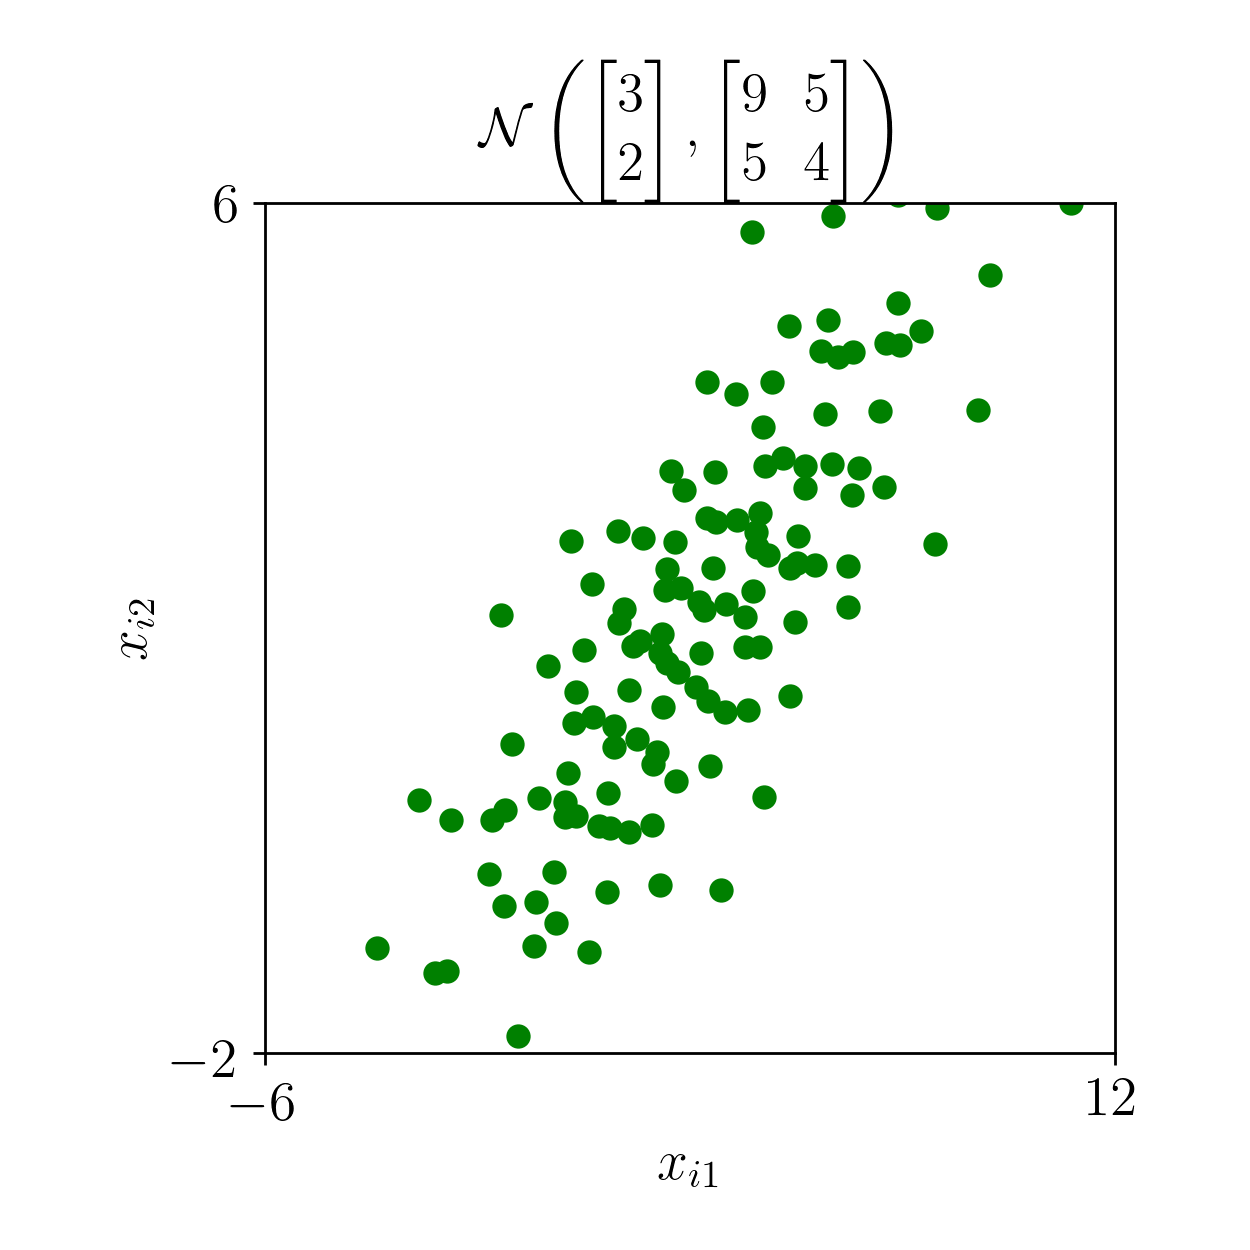
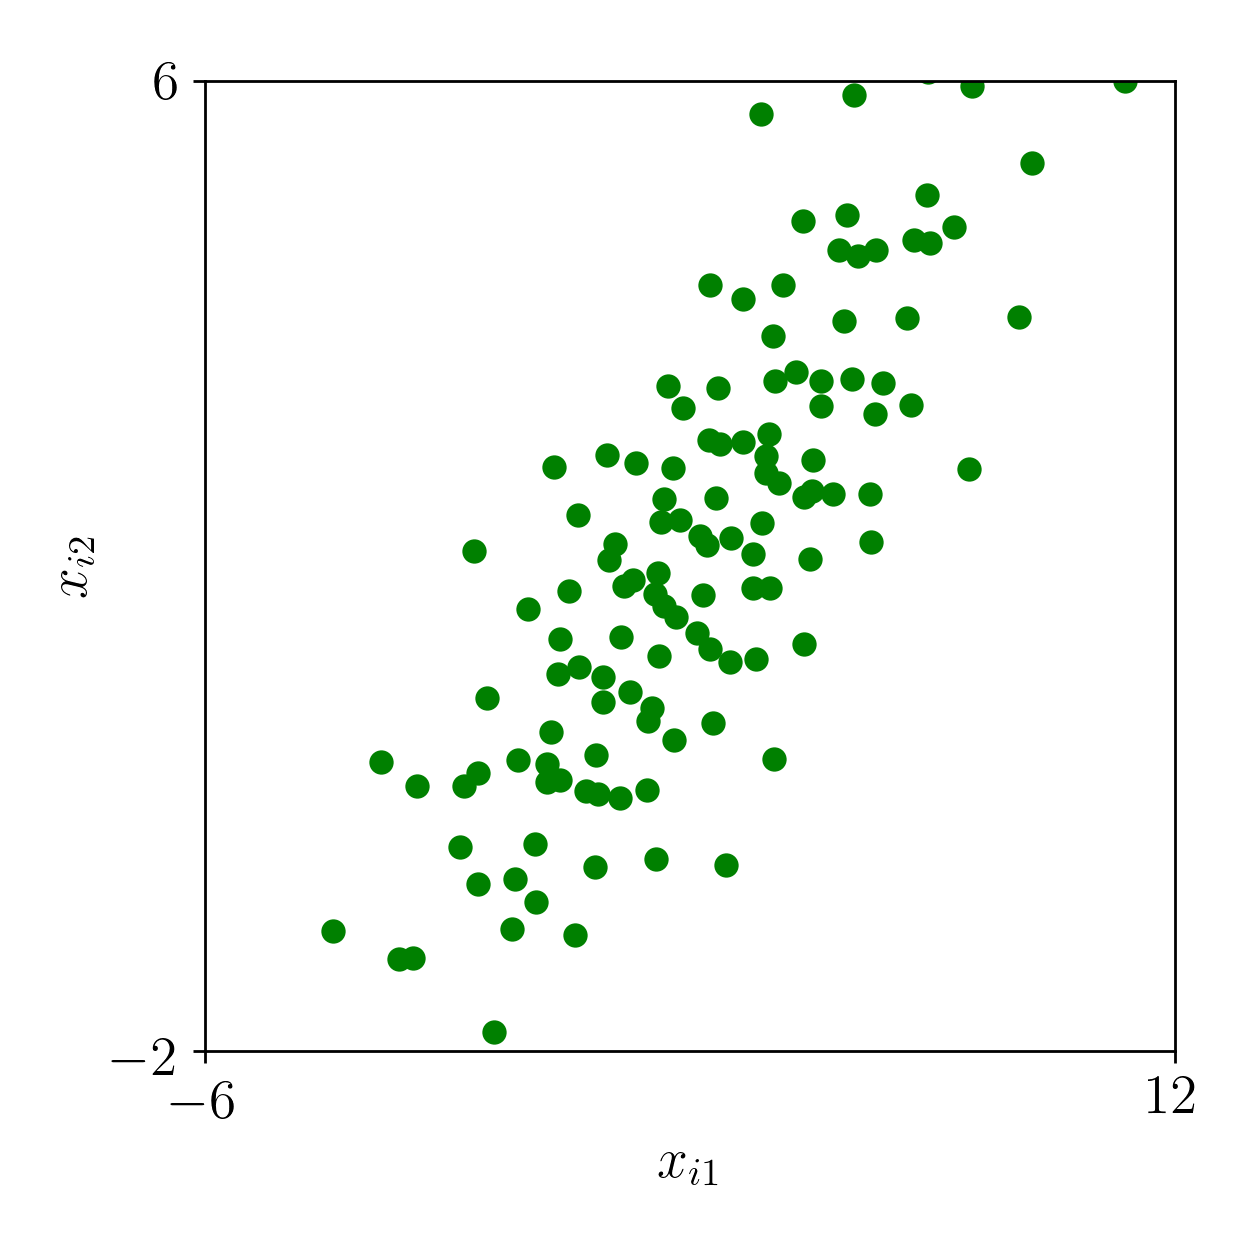
clean up components sections

diff --git a/QMCSoftwareArticle.tex b/QMCSoftwareArticle.tex
@@ -235,10 +235,11 @@ This required four components, which we implement in QMCPy as classes.
 The software libraries referenced in Section \ref{sec:available} provide one or more of these components.  QMCPy combines multiple examples of them all under and object oriented framework. Each example is implemented as a concrete class that realizes the properties and methods required by the abstract class for that component. The following sections detail descriptions and use cases each component and select implementations. Thorough documentation of all QMCPy classes can be found in \cite{QMCPyDocs}. 
 
 QMCPy may be installed from PyPI via the command 
-\lstinputlisting{ags/python/qmcpy_install.py} 
+\lstinputlisting{ags/python/install.py} 
 \AGSComment{Specify version? Change from alpha with newer release.}
 In the sections that follow we assume qmcpy as been imported via the following python command: 
-\lstinputlisting[style=Python]{ags/python/qmcpy_import.py}
+\lstinputlisting[style=Python]{ags/python/import.py}
+The figures in this paper can be reproduced in the Google Colab notebook \AGSComment{CITE}.
 
 \section{Discrete Distributions}
 
@@ -279,13 +280,13 @@ QMCPy implements \emph{extensible} LD sequences, i.e., those that allow practiti
 \end{table}
 
 We illustrate lattice and Sobol' sequences using QMCPy. First, we create an instance of a $d=2$ dimensional \texttt{Lattice} object of the  \texttt{DiscreteDistribution} abstract class.  Then we generate the first eight (non-randomized) points in this lattice:
-\lstinputlisting[style=Python]{ags/python/first_Lattice.py}
+\lstinputlisting[style=Python]{ags/python/dd.lattice.py}
 The first three generators for this lattice are $\bsZ_1 = (0.5, 0.5)$, $\bsZ_2 = (0.25, 0.75)$, and $\bsZ_4 = (0.125, 0.875)$.  One can check that $(\bsZ_2 + \bsZ_4) \bmod \bsone = (0.375, 0.625) = \bsZ_6$, as Table \ref{tab:GroupProp} specifies.
 
-The randomized shift has been turned off above to illuminate the group structure.  In practice, we normally include the randomization to ensure that there are no points on the boundary of $[0,1]^d$.  Then, when points are transformed to mimic distributions with such as the Gaussian, no LD points will be transformed to infinity.  Turning off the randomization generates a warning to the user.
+The randomized shift has been turned off above to illuminate the group structure.  In practice, we normally include the randomization to ensure that there are no points on the boundary of $[0,1]^d$.  Then, when points are transformed to mimic distributions such as the Gaussian, no LD points will be transformed to infinity.  Turning off the randomization generates a warning to the user.
 
 Now, we generate Sobol' points using a similar process as we did for lattice points.  Sobol' sequences are one of the most popular example of digital sequences.
-\lstinputlisting[style=Python]{ags/python/first_Sobol.py}
+\lstinputlisting[style=Python]{ags/python/dd.sobol.py}
 Here, $\bsZ_4$ differs from that for lattices, but more importantly, addition for digital sequences differs from that for lattices.  Using digitwise addition for digital sequences, we can confirm that according to Table \ref{tab:GroupProp},
 \[
 \bsZ_2 \oplus_{\dig} \bsZ_4 = ({}_20.010,{}_20.110)  \oplus_{\dig} ({}_20.001,{}_20.101) = ({}_20.011,{}_20.011) = \bsZ_6.
@@ -298,91 +299,96 @@ By contrast, if we construct a digital sequence using the generators for the lat
 \end{multline*}
 which differs from the $\bsZ_6$ constructed for lattices.  Thus, lattices and digital sequences are different, even if they share the same generators, $\bsZ_1, \bsZ_2, \bsZ_4, \ldots$.
 
-The examples of \texttt{gp.Lattice} and \texttt{gp.Sobol} illustrate how QMCPy LD generators share a common user interface.  The dimension is specified when the instance is constructed, and the number of points is specifiedwhen the \texttt{gen\_samples} method is called.  Following Python practice, parameters can be input without specifying their names if they are input in the prescribed order.  QMCPy also includes Halton sequences and IID sequences.
-
-
-
-
-QMCPy implements numerous discrete distribution classes, both IID and LD. The abstract properties and methods of the abstract discrete distribution class layout requirements for concrete implementations such as the IID standard uniform generator or Sobol' sequence generator. For example, each discrete distribution has a \texttt{gen\_samples} method that allows the user to draw samples from the instance. Moreover, QMCPy has built each discrete distribution object to be highly customizable and support auxiliary features such as plotting, seeding, and skipping dimensions. Again, we refer the reader to the QMCPy documentation \cite{QMCPyDocs}.
-
-The following example shows how to utilize QMCPy's \texttt{Sobol} object to generate samples from a digital net. The construction and usage of other discrete distributions have the same syntax. Note that many of the parameters are defaulted during construction but may be explicitly set for customized usage. 
-
-\lstinputlisting[style=Python]{ags/python/discrete_distrib.py}
+The examples of \texttt{qp.Lattice} and \texttt{qp.Sobol} illustrate how QMCPy LD generators share a common user interface.  The dimension is specified when the instance is constructed, and the number of points is specified when the \texttt{gen\_samples} method is called.  Following Python practice, parameters can be input without specifying their names if they are input in the prescribed order.  QMCPy also includes Halton sequences and IID sequences, again deferring details to the QMCPy documentation \cite{QMCPyDocs}.
 
 \begin{figure}
 	\includegraphics[height=5cm]{ags/figs/dd.lattice.png}
 	\qquad
 	\includegraphics[height=5cm]{ags/figs/dd.sobol.png}
-	\caption{Randomized Lattice and Sobol' points mimicking a $\calU[0,1]^2$ measure. \AGSComment{Add LD superscripts. Change to "Scrambled Sobol'". Refer to this fig.}}
+	\caption{Randomized lattice and Sobol' points mimicking a $\calU[0,1]^2$ measure.}
 	\label{fig:dd_iid}
 \end{figure}
 
 \section{True Measure}
 
-The true measure defines the transform required for $F$ to mimic $\lambda$. In this way, we can transform the original integrand $g$ to the new integrand $f$ which accepts samples generated from the discrete distribution. QMCPy performs the necessary transformations automatically during construction of the integrand object. The following examples assume a discrete distribution mimicking $\calU[0,1]^d$. Figure \ref{fig:tm} shows samples generated from the discrete distribution that have been transformed to mimic the true measure.
+The true measure defines the transform required for $F$ to mimic $\lambda$. This change of variables allows us to transform the original integrand $g$ to the a integrand $f$ which accepts samples generated from the discrete distribution. QMCPy performs the necessary transformations automatically during construction of the integrand object. The following examples assume a discrete distribution mimicking $\calU[0,1]^d$. 
 
-Suppose our true measure is defined as $\calU[\bsa,\bsb]^d$ where $\bsa,\bsb$ are finite vectors of lower and upper bounds respectively. Then we may generate samples mimicking this non-standard Uniform distribution using the \texttt{gen\_samples} function $T(\bsx) = (\bsb-\bsa)\bsx + \bsa$. The resulting transformed integrand may be written as $f(\bsx) = g(t(\bsx))$. The following code utilizes QMCPy to construct a non-standard uniform object and draw samples with the \texttt{gen\_samples} for true measures.  Note that each true measure is constructed with a discrete distribution and that that not all true measures implement a \texttt{gen\_samples} method. For example, it is not reasonable to generate samples that mimic the Lebesgue measure. 
+Suppose our true measure is defined as $\calU[\bsa,\bsb]$ where $\bsa,\bsb$ are finite $d$-dimensional vectors of lower and upper bounds respectively. Then we may generate samples mimicking this non-standard Uniform distribution using the \texttt{gen\_samples} function $T(\bsx) = (\bsb-\bsa)\bsx + \bsa$. The resulting transformed integrand may be written as $f(\bsx) = g(T(\bsx))$. The following code utilizes QMCPy to construct a non-standard uniform object and draw samples with the \texttt{gen\_samples} method for true measures.  Note that each true measure is constructed with a discrete distribution and that that not all true measures implement a \texttt{gen\_samples} method. For example, it is not reasonable to generate samples that mimic the Lebesgue measure. Figure \ref{fig:tm_ug} shows samples generated from a non-standard Uniform measure. 
 
+\lstinputlisting[style=Python]{ags/python/tm.uniform.py}
 
-\lstinputlisting[style=Python]{ags/python/first_uniform.py}
+Now, suppose our true measure is a Gaussian $\calN(\mu,\Sigma)$ where the covariance $\Sigma$ may be decomposed as $\Sigma=AA^T$ using methods such as principal component analysis or the Cholesky decomposition. (Note that $\mu$ here is different than the previously defined true mean.) Then the \texttt{gen\_samples} function, $T(\bsx) = A^T \Phi^{-1}(\bsx) + \mu$ where $\Phi$ is the CDF function for the standard Gaussian, is utilized to develop the transformed integrand $f(\bsx) = g(T(\bsx))$. The following code uses QMCPy's Gaussian object to generate samples from a lattice discrete distribution and transform them to mimic a non-standard Gaussian. Figure \ref{fig:tm_ug} shows samples generated from a non-standard Gaussian measure.   
 
-Now, suppose our true measure is a Gaussian $\calN(\mu,\Sigma)$ where the covariance $\Sigma$ may be decomposed as $\Sigma=AA^T$ using methods such as principal component analysis or the Cholesky decomposition. (Note that $\mu$ here is different than $\mu$ the previously defined mean.) Then the \texttt{gen\_samples} function, $T(\bsx) = A^T \Phi^{-1}(\bsx) + \mu$ where $\Phi$ is the CDF function for the standard Gaussian, is utilized to develop the transformed integrand $f(\bsx) = g(T(\bsx))$. The following code uses QMCPy's Gaussian object to generate samples from a Sobol' discrete distribution and transform them to mimic a non-standard Gaussian.   
+\lstinputlisting[style=Python]{ags/python/tm.gaussian.py}
 
-\lstinputlisting[style=Python]{ags/python/first_gaussian.py}
+\begin{figure}
+	\includegraphics[width=.45\textwidth]{ags/figs/tm.uniform.png} 
+%	\quad
+	\includegraphics[width=.45\textwidth]{ags/figs/tm.gaussian.png}
+	\caption{Sobol' samples transformed to mimic a uniform $\calU\left(\begin{bmatrix} -2 \\ 0 \end{bmatrix}, \begin{bmatrix} 2 \\ 4 \end{bmatrix} \right)$ (left) and  Gaussian $\calN\left(\begin{bmatrix} 3 \\ 2 \end{bmatrix}, \begin{bmatrix} 9 & 5 \\ 5 & 4 \end{bmatrix} \right)$ (right).}
+	\label{fig:tm_ug}
+\end{figure}
 
-Finally, we discuss Geometric Brownian Motion using QMCPy. With monitoring times $t = (j/d)_{j=1}^d$, Brownian Motion is equivalent to the Gaussian true measure $\calN(0,\Sigma)$ where $\Sigma = (\min(t_j,t_k))_{j,k=1}^d$. QMCPy also allows the user to perform importance sampling with a $\calN(\bsa,\Sigma)$ measure where scalar $a$ is a drift parameter that has been extended to a $d \times 1$ mean vector in the importance sampling measure. Intuitively, importance sampling allows an option to sample rare events more frequently but with less weight. Specifically, we define the \texttt{gen\_samples} function as $T(\bsx) = A^T\Phi^{-1}(\bsx) + \bsa$ and then the resulting transformed function as $f(\bsx) = g(T(\bsx))\exp((\bsa/2-\bsx)^T\Sigma^{-1}\bsa)$. Note that if we choose not to use importance sampling, $a=0$, then the transformed function collapses to the familiar $f(\bsx) = g(T(\bsx))$. The following example uses the Brownian Motion object from QMCPy to generate samples with with an upward drift of $a=2$ based on the underlying Sobol' sequence. 
+Finally, we discuss Geometric Brownian Motion using QMCPy. With monitoring times $\bst = (j/d)_{j=1}^d$, Brownian Motion is equivalent to the Gaussian true measure $\calN(0,\Sigma)$ where $\Sigma = (\min(t_j,t_k))_{j,k=1}^d$. QMCPy also allows the user to perform importance sampling with a $\calN(\bsa,\Sigma)$ measure where scalar $a$ is a drift parameter appropriately extended to a $d \times 1$ mean vector in the importance sampling measure. Intuitively, importance sampling samples rare events more frequently but with less weight, leading to faster convergence. Specifically, we define the \texttt{gen\_samples} function as $T(\bsx) = A^T\Phi^{-1}(\bsx) + \bsa$ and then the resulting transformed function as $f(\bsx) = g(T(\bsx))\exp((\bsa/2-\bsx)^T\Sigma^{-1}\bsa)$. Note that if we choose not to use importance sampling, $a=0$, then the transformed function collapses to the familiar $f(\bsx) = g(T(\bsx))$. The following example uses the Brownian Motion object from QMCPy to generate samples with an upward drift of $a=2$ based on the underlying Sobol' sequence. Figure \ref{fig:tm_bm} shows samples generated from a discrete Brownian Motion with and without importance sampling. 
 
 \lstinputlisting[style=Python]{ags/python/tm.brownian_motion.py}
 
 \begin{figure}
-	\includegraphics[width=.3\textwidth]{ags/figs/tm.uniform.png} 
+	\includegraphics[width=.45\textwidth]{ags/figs/tm.bm.png} 
 %	\quad
-	\includegraphics[width=.3\textwidth]{ags/figs/tm.gaussian.png}
-%	\quad
-	\includegraphics[width=.3\textwidth]{ags/figs/tm.brownian_motion.png}
-	\caption{Left to right: Sobol' samples transformed to mimic a uniform $\calU\left(\begin{bmatrix} -2 \\ 0 \end{bmatrix}, \begin{bmatrix} 2 \\ 4 \end{bmatrix} \right)$, Gaussian $\calN\left(\begin{bmatrix} 3 \\ 2 \end{bmatrix}, \begin{bmatrix} 9 & 5 \\ 5 & 4 \end{bmatrix} \right)$, and 32-dimensional Brownian Motion with upward drift ($a=2$) true measure. \AGSComment{Remove figure titles.}}
-	\label{fig:tm}
+	\includegraphics[width=.45\textwidth]{ags/figs/tm.bm_drift.png}
+	\caption{Sobol' samples transformed to mimic a 32-dimensional Brownian Motion. The figure on the left does not use importance sampling while the figure on the right uses importance sampling with drift $a=2$.}
+	\label{fig:tm_bm}
 \end{figure}
 
 \section{Integrands}
 
-Use cases are implemented as integrands in QMCPy. Practitioners who wish to use QMCPy in their work will likely only need to utilize QMCPy's \texttt{CustomFun} wrapper to tie their function into the framework. When writing a function to be used with QMCPy, it is important to implement the original integrand, not the transformed integrand. Again, our framework will perform the transform to get $f$ behind the scenes. Moreover, the original integrand function is assumed to take as input a $n$ samples by $d$ dimensions array of samples and return a $n$-vector of function evaluations at those samples. 
+Use cases are implemented as integrands in QMCPy. Practitioners who wish to use QMCPy in their work will likely only need to utilize QMCPy's \texttt{CustomFun} wrapper to tie their existing function into the framework. When writing a function to be used with QMCPy, it is important to implement the original integrand $g$, not the transformed integrand $f$. Again, our framework will perform the necessary transform behind the scenes. Moreover, the original integrand function is assumed to take as input a $n$ samples by $d$ dimensional array of samples and return a length $n$ vector of function evaluations at those samples. 
 
-First, we develop and implement the  Keister function \AGSComment{CITE} which is developed as, 
+First, we develop and implement the  Keister function \AGSComment{CITE}:
 \begin{align*}
 \mu 
 &= \int_{\mathbb{R}^d} \cos(\lVert \bsx \rVert) \exp(-\bsx^T \bsx) \D \bsx \\ 
 &= \int_{\mathbb{R}^d} \underbrace{\pi^{d/2} \cos(\lVert \bsx \rVert)}_{g(\bsx)} \underbrace{\pi^{-d/2} \exp(-\bsx^T \bsx) \D \bsx}_{\calN(0,\bsI/2)} \\ 
-&= \int_{\mathbb{R}^d} \underbrace{\pi^{d/2} \cos(\lVert \Phi^{-1}(\bsx)/2 \rVert)}_{f(\bsx)} \underbrace{\D \bsx}_{\calU[0,1]^d}
+&= \int_{\mathbb{R}^d} \underbrace{\pi^{d/2} \cos(\lVert \Phi^{-1}(\bsx)/2 \rVert)}_{f(\bsx)} \underbrace{\D \bsx}_{\calU[0,1]^d}.
 \end{align*}
 Thus, to use QMCPy, we use the integrand $g(\bsx) = \pi^{d/2} \cos(\lVert \bsx \rVert)$ and true measure $\calN(0,\bsI/2)$ to implement the Keister function. Note that we may also have defined the integrand as $g(\bsx) = \cos(\lVert \bsx \rVert)\exp(-\bsx^T\bsx)$ and used the Lebesgue true measure. The following code defines the Keister integrand and non-standard Gaussian true measure with Halton discrete distribution. Samples are then drawn from the discrete distribution and evaluate by the transformed integrand $f$. The function evaluations are then averaged as an approximation of the mean.
-\lstinputlisting[style=Python]{ags/python/integrand.py}
+\lstinputlisting[style=Python]{ags/python/i.keister.py}
 Figure \ref{fig:ikc} visualizes sampling on the original integrand versus sampling on the transformed integrand. Note that the Keister function has been also implemented as a concrete integrand class in the QMCPy library. 
 \begin{figure}
 	\includegraphics[height=6cm]{ags/figs/i.keister_contours.png}
-	\caption{Left: Sampling the original integrand $g$ using a $calN(0,\bsI/2)$ true measure. \\ Right: Sampling the transformed integrand $f$ using a $calU[0,1]^2$ true measure, as done in QMCPy. \AGSComment{Change color scheme? Use t or x for left fig?}}
+	\caption{Left: Sampling the original integrand $g$ using a $\calN(0,\bsI/2)$ true measure. \\ Right: Sampling the transformed integrand $f$ using a $\calU[0,1]^2$ true measure, as done in QMCPy.}
 	\label{fig:ikc}
 \end{figure}
 
 Next, we focus our attention on option pricing. While QMCPy has a number of single and multi-level options available, we now focus solely on the Asian call option. Roughly, the  Asian call option computes the average overshot of the strike price. Specifically, if $\bsx$ is a length $d$ discrete Brownian Motion sample and $\bst = (j/d)_{j=1}^d$ are the discrete monitoring times of the option, one may approximate the the option price at the $j^{th}$ monitoring time as 
-$$S(t_j,\bsx_j) = S_0 \exp((r-\sigma^2/2)t+\sigma x_j).$$
+$$S(t_j,x_j) = S_0 \exp((r-\sigma^2/2)t+\sigma x_j).$$
 Here $S_0$ is the start price, $\sigma$ is the volatility, and $r$ is the interest rate. Now, if we define $K$ as the strike price, the arithmetic Asian call option may be written as 
-$$g(\bsx) = \max\left(\frac{1}{2d}\sum_{j=1}^d [S(\bst_{j-1},\bsx_{j-1})+S(\bst_j,\bsx_j)]-K,0\right).$$
+$$g(\bsx) = \max\left(\frac{1}{2d}\sum_{j=1}^d [S(t_{j-1},x_{j-1})+S(t_j,x_j)]-K,0\right).$$
 Figure \ref{fig:aco} shows drifted Brownian motion paths and their corresponding option pricing paths. The following code utilizes QMCPy's Asian option object to make a crude approximation of the payoff. The following section will describe stopping criterion useful to automatically determining $n$. 
 \lstinputlisting[style=Python]{ags/python/i.aco.py}
 \begin{figure}
 	\includegraphics[width=.45\textwidth]{ags/figs/i.bm.png} 
 %	\quad
 	\includegraphics[width=.45\textwidth]{ags/figs/i.aco.png}
-	\caption{Left: Brownian Motion paths with drift $a=2$.\\ Right: Corresponding Asian Call option paths with $S_0=35$, $K=40$. \AGSComment{Fix above figs to match what I have in presentation.}}
+	\caption{Left: Brownian Motion paths with drift $a=2$.\\ Right: Corresponding Asian Call option paths with $S_0=30$, $K=45$, $\sigma=0.5$, and $r=0$.}
 	\label{fig:aco}
 \end{figure}
 
 \section{Stopping Criteria}
 
-%\lstinputlisting[style=Python]{ags/python/sc_mc.py}
+The stopping criteria determines the number of samples $n$ that are required for the sample mean approximation $\hat{\mu}$ to be within error tolerance $\epsilon$ of the true mean $\mu$. 
 
-\lstinputlisting[style=Python]{ags/python/sc_qmc.py}
+The following example shows how to run a QMC simulation that approximates the Keister function to within absolute tolerance $\epsilon_{\text{abs}}=10^{-3}$ using QMCPy. Note the nested construction where the discrete distribution is passed into the true measure which is passed into the integrand which is passed into the stopping criterion. This architecture allows QMCPy to perform the change of variables transformation behind the scenes. The nested construction also provides the stopping criterion knowledge of the other three components, thus allowing the \texttt{integrate} method to perform the QMC simulation. Finally, note that the data object returned by the \texttt{integrate} method can be nicely printed to show parameters set during the simulation. Individual QMCPy objects may also be printed to reveal underlying parameters. 
+\lstinputlisting[style=Python]{ags/python/sc.keister.qmc.py}
+
+Figure \ref{fig:sc_comp} compares MC and QMC stopping criterion on the Keister integrand. We see that QMC methods requires significantly fewer samples that MC methods to achieve the same error tolerance. This empirical behaviour matches the theoretical cost of the QMC/MC methods.
+
+\begin{figure}
+	\includegraphics[height=6cm]{ags/figs/sc.comp.png}
+	\caption{Comparison of runtime for MC (\texttt{CubMCG}) and QMC (\texttt{CubQMCLatticeG}) methods on the 5 dimension Keister integrand with varying absolute tolerance. Note that the relative tolerance is set to 0 for all trials. }
+	\label{fig:sc_comp}
+\end{figure}
 
 \section{Under the Hood}
 

diff --git a/ags/python/i.keister.py b/ags/python/i.keister.py
@@ -1,13 +1,14 @@
 >>> import numpy as np
-d = 2 # dimension
+>>> d = 2 # dimension
 >>> def my_Keister(x): # create a custom function
-...     norm = np.sqrt((x**2).sum(1))
+...     norm = np.sqrt((x**2).sum(1)) # sum along rows
 ...     k = np.pi**(d/2)*np.cos(norm)
 ...     return k  # size n vector
 >>> # define QMCPy components
->>> lebesgue = qp.Gaussian(qp.Halton(d), mean=0, covariance=1/2)
->>> cf = qp.CustomFun(lebesgue, custom_fun=my_Keister)
->>> 
+>>> gaussian = qp.Gaussian(qp.Halton(d), 
+                    mean = 0, 
+                    covariance = 1/2)
+>>> cf = qp.CustomFun(gaussian, custom_fun=my_Keister)
 >>> # Use QMCPy objects to evaluate integrand
 >>> x = cf.distribution.gen_samples(2**7) # generate Halton samples
 >>> y = cf.f(x) # evaluate transformed integrand at Halton points

diff --git a/ags/python/i.aco.py b/ags/python/i.aco.py
@@ -1,7 +1,12 @@
->>> dd = qp.Sobol(4,seed=7)
->>> m = qp.BrownianMotion(dd)
->>> ac = qp.AsianOption(m)
->>> x = dd.gen_samples(2**10)
->>> y = ac.f(x)
+>>> sobol = qp.Sobol(4) # t = [1/4, 1/2, 3/4, 1]
+>>> aco = qp.AsianOption(
+...         qp.BrownianMotion(sobol, drift=2), 
+...         start_price = 30,
+...         strike_price = 45,
+...         volatility = 0.5,
+...         interest_rate = 0,
+...         call_put = 'call')
+>>> x = sobol.gen_samples(2**10)
+>>> y = aco.f(x)
 >>> y.mean()
-FIX CODE with start price, strike price, call option, ...
+0.4349545319177899

diff --git a/ags/python/dd.lattice.py b/ags/python/dd.lattice.py
@@ -1,7 +1,6 @@
 >>> lattice = qp.Lattice(dimension=2,randomize=False)
 >>> lattice.gen_samples(n=8)
-/usr/local/lib/python3.6/dist-packages/qmcpy/discrete_distribution/lattice/lattice.py:197: ParameterWarning: Non-randomized lattice sequence includes the origin
-  warnings.warn("Non-randomized lattice sequence includes the origin",ParameterWarning)
+warnings.warn("Non-randomized lattice sequence includes the origin",ParameterWarning)
 array([[0.   , 0.   ],
        [0.5  , 0.5  ],
        [0.25 , 0.75 ],

diff --git a/ags/python/tm.gaussian.py b/ags/python/tm.gaussian.py
@@ -1,0 +1,9 @@
+>>> g = qp.Gaussian(qp.Lattice(2,seed=7), 
+        mean = [3.,2.], 
+        covariance = [[9.,5.], 
+                      [5.,4.]])
+>>> g.gen_samples(n_min=4,n_max=8)
+array([[ 5.67544775,  3.20652139],
+       [ 0.92851923,  1.8585235 ],
+       [ 3.24123419,  2.41891994],
+       [-1.24607815, -2.09325807]])

diff --git a/ags/python/tm.uniform.py b/ags/python/tm.uniform.py
@@ -1,0 +1,8 @@
+>>> u = qp.Uniform(qp.Halton(2), 
+            lower_bound = [-2,0], 
+            upper_bound = [2,4])
+>>> u.gen_samples(4)
+array([[ 0.85908285,  0.85683196],
+       [-1.14091715,  2.19016529],
+       [ 1.85908285,  3.52349863],
+       [-0.14091715,  1.30127641]])

diff --git a/ags/python/dd.sobol.py b/ags/python/dd.sobol.py
@@ -1,0 +1,8 @@
+>>> sobol = qp.Sobol(2,randomize=False)
+>>> sobol.gen_samples(n_min=4,n_max=8,warn=False)
+array([[0.25 , 0.75 ],
+       [0.75 , 0.25 ],
+       [0.125, 0.625],
+       [0.625, 0.125],
+       [0.375, 0.375],
+       [0.875, 0.875]])
